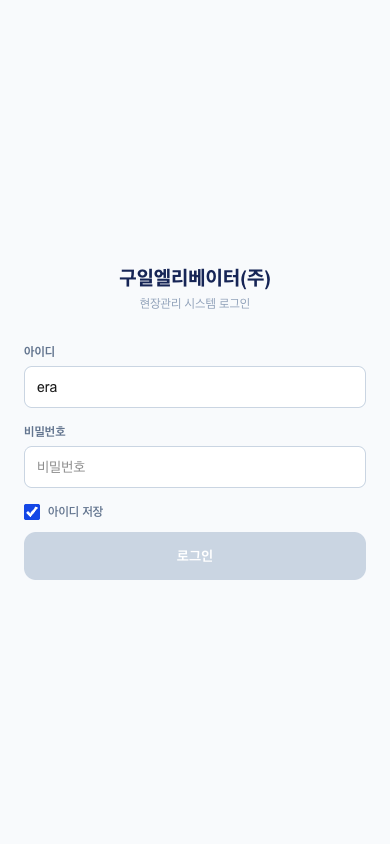
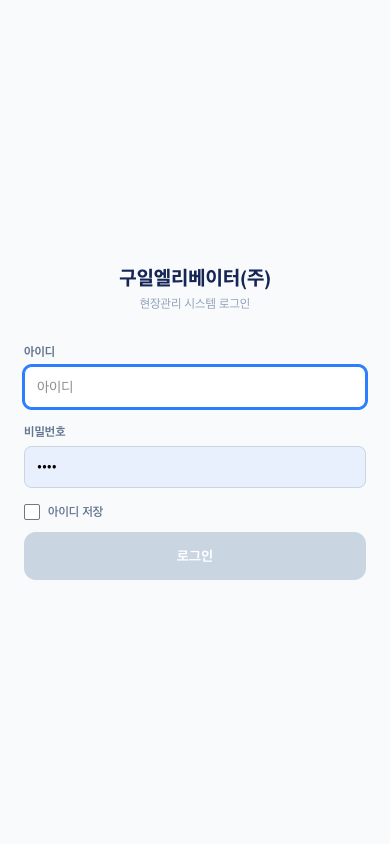
화면설계 로그인 v0.2 — 상태별 실물 캡처 3장(로그인·실패·강제비번변경) 추가

Changed region(s): [[0.0308, 0.4313, 0.9538, 0.4929], [0.0923, 0.5237, 0.2154, 0.5853], [0.0615, 0.5853, 0.1231, 0.6161]]

diff --git a/docs/design/screens/login.html b/docs/design/screens/login.html
@@ -20,7 +20,7 @@
 <body>
 <main>
   <nav class="docnav"><a href="../index.html" class="home">설계 허브</a><span class="sep">·</span><a href="../01-prd.html">01 PRD</a><span class="sep">·</span><a href="../02-userflow.html">02 유저플로우</a><span class="sep">·</span><a href="../03-sitemap.html">03 화면지도</a><span class="sep">·</span><a href="../04-snapshot.html">04 스냅샷</a><span class="sep">|</span><span class="sep" style="font-size:11px">화면설계</span><a href="../screens/login.html" class="here">로그인</a></nav>
-  <h1>로그인 <span class="badge doing">v0.1</span></h1>
+  <h1>로그인 <span class="badge doing">v0.2</span></h1>
   <p class="doc-meta">화면설계서 · 코드 <code>LoginScreen.jsx</code> + <code>ElevatorFieldApp.jsx(handleLogin)</code> + RPC <code>verify_login</code>(마이그 067) · <a href="../index.html">← 설계 허브</a> · <a href="../03-sitemap.html">화면 지도</a></p>
 
   <h2>1. 연결 — 어디서 와서, 어디로 가나</h2>
@@ -29,7 +29,7 @@
     <div class="arrow">→</div>
     <div class="node this"><img src="img/login.png" alt="로그인 화면">로그인 (이 화면)</div>
     <div class="arrow">→</div>
-    <div class="node"><div class="ph">강제 비밀번호<br>변경<br><small>(첫 로그인만)</small></div>조건부</div>
+    <div class="node"><mark class="changed"><img src="img/login-mustchange.png" alt="강제 비밀번호 변경 화면"></mark>강제 비번변경<br><small>(첫 로그인만)</small></div>
     <div class="arrow">→</div>
     <div class="node"><a href="#"><img src="img/home-eng.png" alt="홈 화면"></a>홈 <span class="badge todo">페이지 예정</span></div>
   </div>
@@ -41,7 +41,14 @@
 
   <h2>2. 화면 요소</h2>
   <div class="shot-row">
-    <div class="col"><img class="shot" src="img/login.png" alt="로그인 화면 스크린샷"></div>
+    <div class="col">
+      <img class="shot" src="img/login.png" alt="로그인 화면 스크린샷">
+      <mark class="changed"><p style="font-size:11px;color:var(--sub);margin:8px 0 4px">상태별 화면 (2026-08-04 캡처)</p></mark>
+      <div style="display:flex;gap:8px">
+        <figure style="margin:0;flex:1"><img class="shot" src="img/login-error.png" alt="로그인 실패 상태"><figcaption style="font-size:11px;color:var(--sub);text-align:center;margin-top:4px">실패 — 에러 문구 한 종류(보안)</figcaption></figure>
+        <figure style="margin:0;flex:1"><img class="shot" src="img/login-mustchange.png" alt="강제 비밀번호 변경"><figcaption style="font-size:11px;color:var(--sub);text-align:center;margin-top:4px">초기비번(1234) 그대로면 강제 변경</figcaption></figure>
+      </div>
+    </div>
     <div class="col">
       <table>
         <tr><th>요소</th><th>설명</th></tr>
@@ -94,6 +101,7 @@
   <h2>변경 이력</h2>
   <table>
     <tr><th>버전</th><th>날짜</th><th>변경</th></tr>
+    <tr><td>v0.2</td><td>2026-08-04</td><td>상태별 캡처 3장 추가(로그인·실패·강제 비번변경 — localhost ?auth=1에서 실물 캡처), 연결 다이어그램의 강제변경 자리를 실제 캡처로 교체, 홈 썸네일 최신화</td></tr>
     <tr><td>v0.1</td><td>2026-07-30</td><td>최초 작성 — docs/QA-RULES.md의 "1. 기사 로그인" 항목을 흡수(연결·요소·QA·화이트라벨)</td></tr>
   </table>
 </main>
